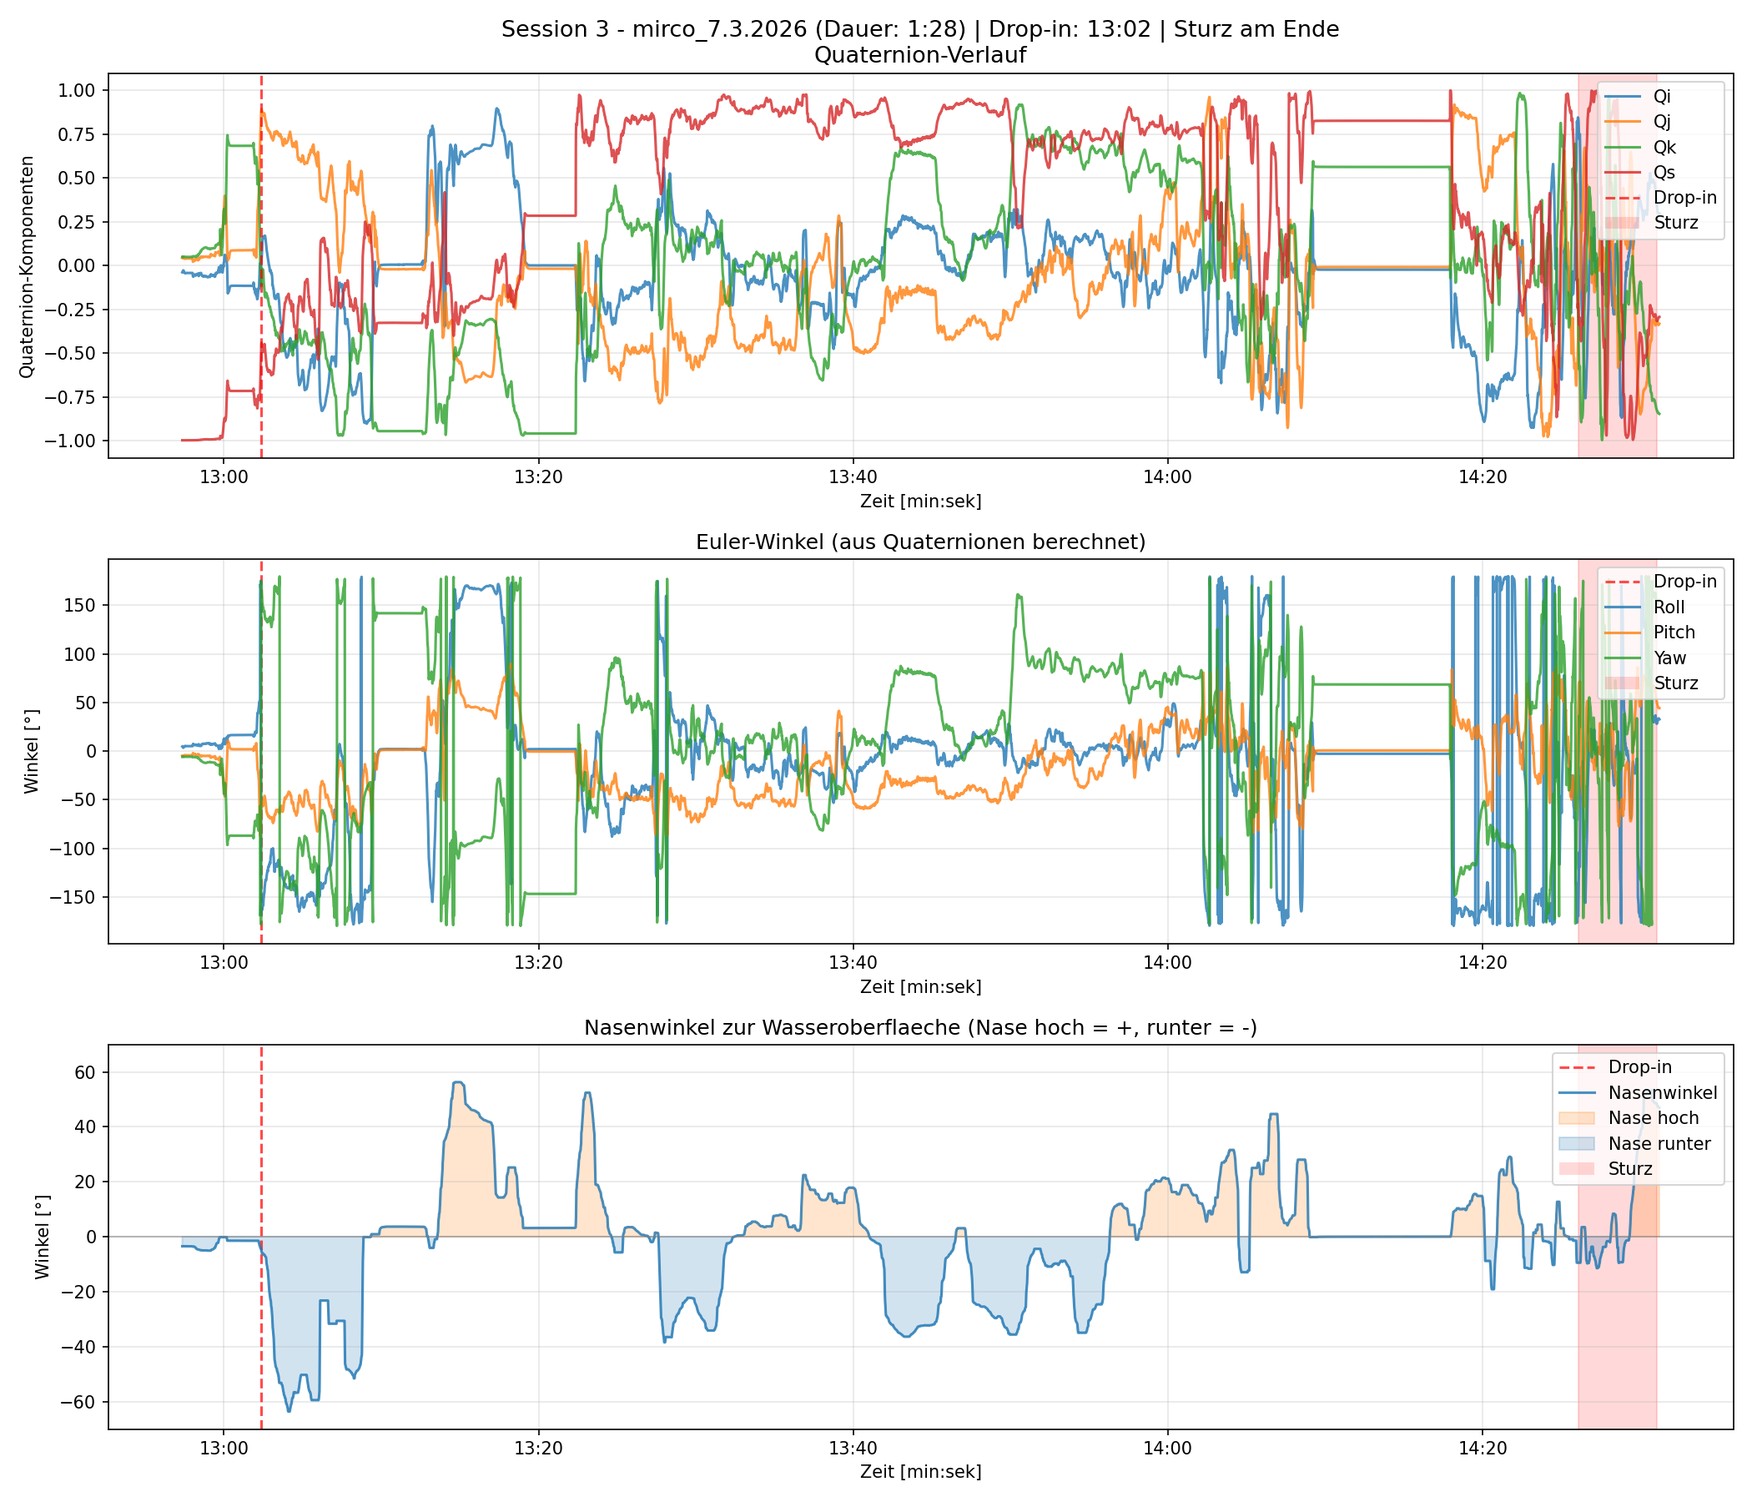
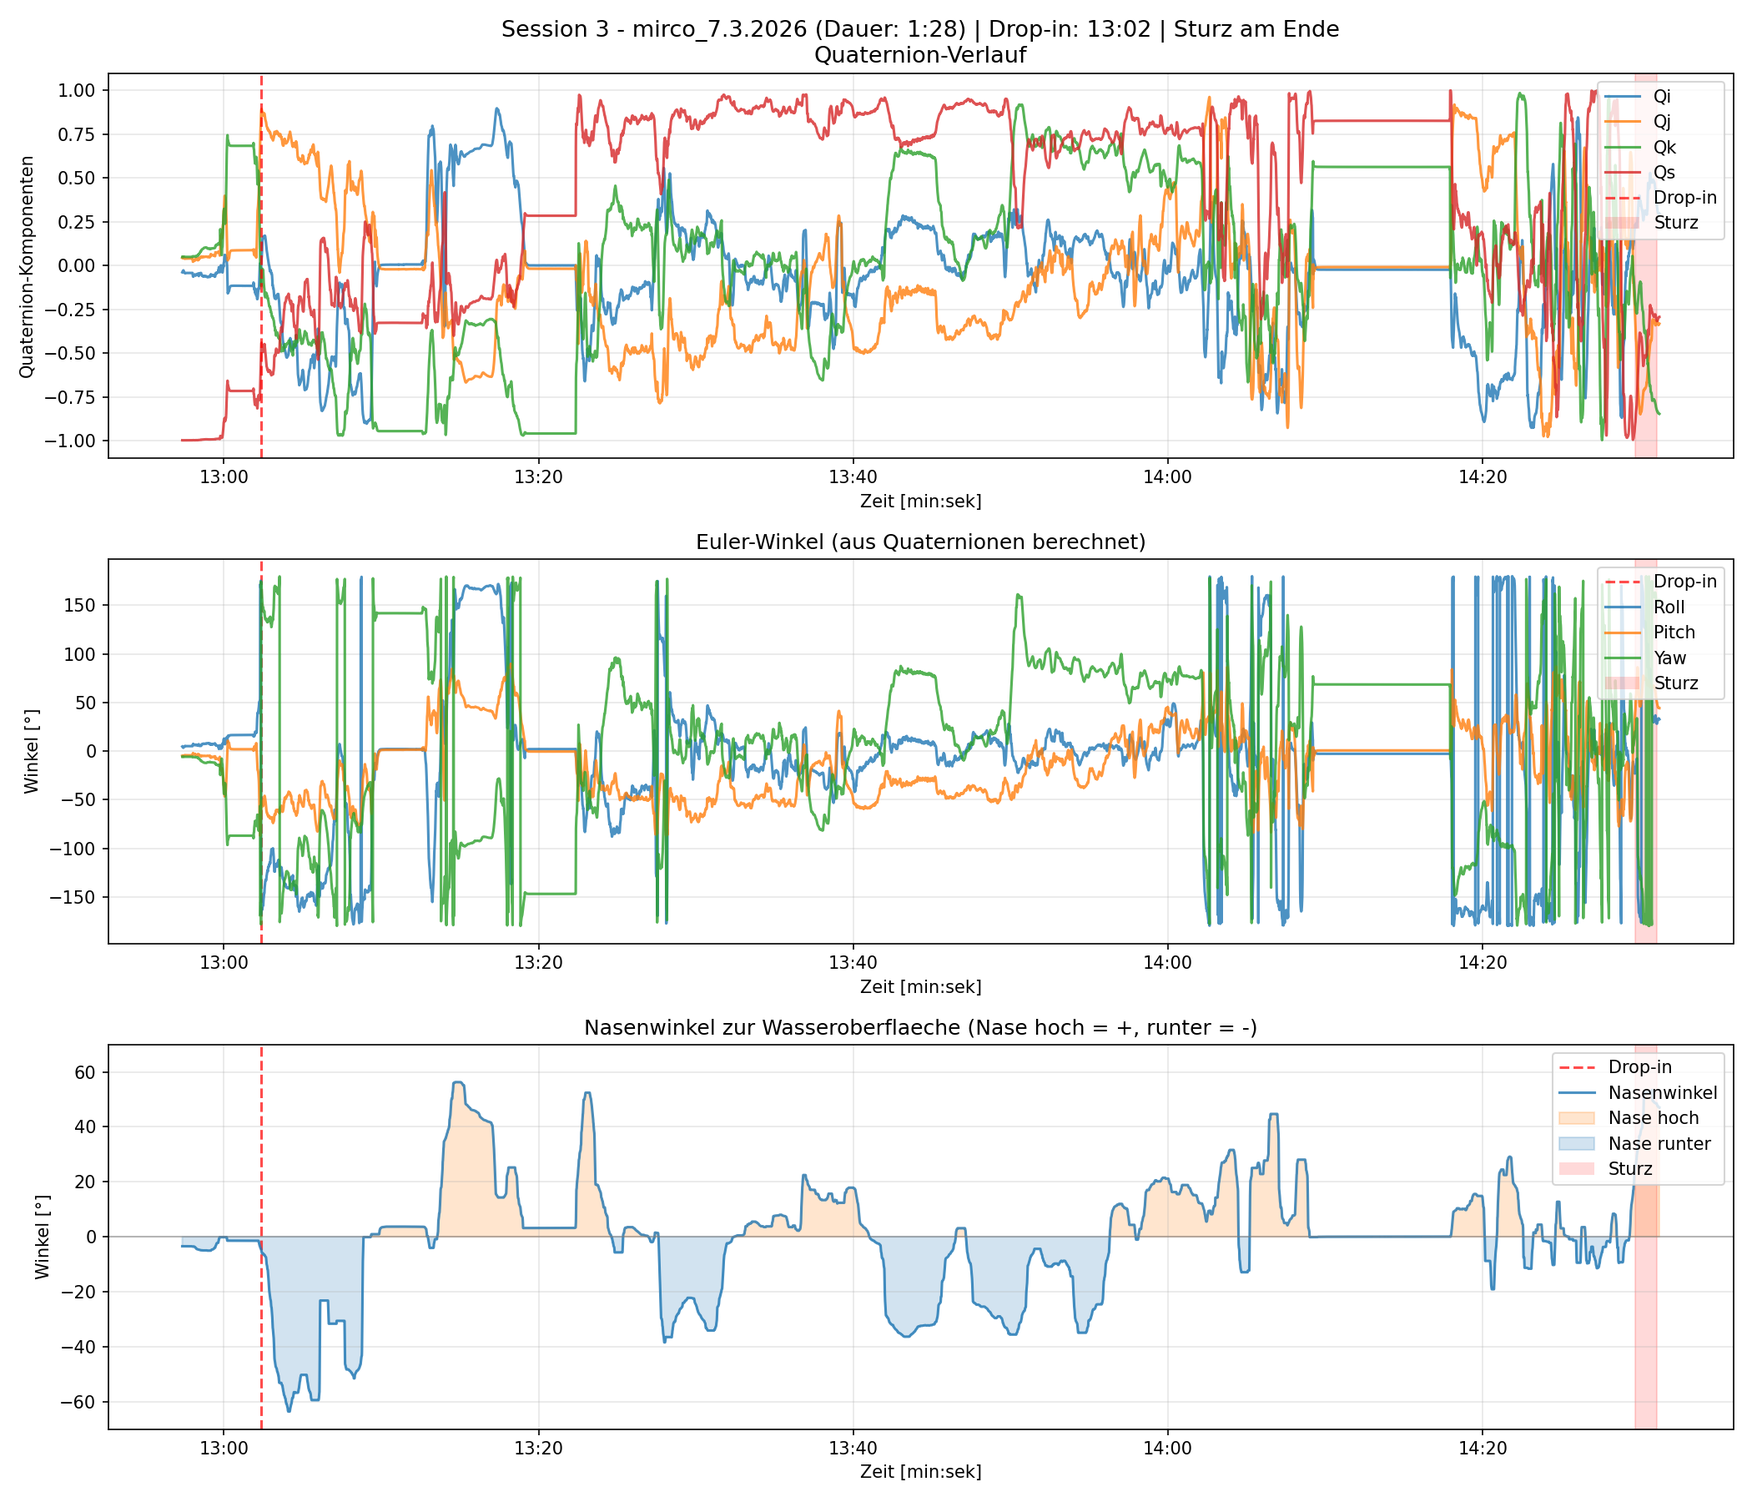
Add 2D board animation and improve crash detection and FFT analysis
- New animate_board_3d.py: 2D side-view animation showing board nose
  tilting up/down with water surface reference and nose angle time series
- Improved crash detection: scan backwards from session end to find where
  angle first exceeds ±25° instead of naive last-5-seconds
- FFT now computed only over clean pump zone (after drop-in, before crash)
- Uniform y-axis scaling across all sessions for better comparison
- Combined plot shows clean zone (green) and crash zone (red)

diff --git a/Utilities/scripts/animate_board_3d.py b/Utilities/scripts/animate_board_3d.py
@@ -1,0 +1,260 @@
+#!/usr/bin/env python3
+"""
+3D board orientation animation from quaternion data.
+
+Creates an animated GIF per pumpfoil session showing the board tilting
+according to the quaternion sensor data. The board is rendered as a flat
+rectangle; a nose marker (red) shows the front direction.
+
+Usage:
+  python animate_board_3d.py quaternion_data.csv [-o OUTPUT_DIR] [--fps 30]
+"""
+import argparse
+import os
+import sys
+
+import numpy as np
+import pandas as pd
+import matplotlib
+matplotlib.use('Agg')
+import matplotlib.pyplot as plt
+from mpl_toolkits.mplot3d.art3d import Poly3DCollection
+from matplotlib.animation import FuncAnimation, PillowWriter
+
+
+SAMPLE_RATE_HZ = 120
+
+
+def quat_rotate(q, v):
+    """Rotate vector v by quaternion q = (qi, qj, qk, qs) (Hamilton convention)."""
+    qi, qj, qk, qs = q
+    # q * v * q_conj using expanded formula
+    t = 2.0 * np.cross([qi, qj, qk], v)
+    return v + qs * t + np.cross([qi, qj, qk], t)
+
+
+def remove_yaw(qi, qj, qk, qs):
+    """Remove yaw (heading) from quaternion, keeping only pitch and roll.
+    This makes the board always face the same direction in the animation."""
+    # Compute yaw angle
+    siny_cosp = 2.0 * (qs * qk + qi * qj)
+    cosy_cosp = 1.0 - 2.0 * (qj * qj + qk * qk)
+    yaw = np.arctan2(siny_cosp, cosy_cosp)
+    # Create inverse yaw quaternion (rotation around Z by -yaw)
+    half_yaw = -yaw / 2.0
+    qz_i, qz_j, qz_k, qz_s = 0.0, 0.0, np.sin(half_yaw), np.cos(half_yaw)
+    # Multiply: q_no_yaw = q_inv_yaw * q_original
+    # Hamilton product (a * b)
+    r_s = qz_s * qs - qz_i * qi - qz_j * qj - qz_k * qk
+    r_i = qz_s * qi + qz_i * qs + qz_j * qk - qz_k * qj
+    r_j = qz_s * qj - qz_i * qk + qz_j * qs + qz_k * qi
+    r_k = qz_s * qk + qz_i * qj - qz_j * qi + qz_k * qs
+    return r_i, r_j, r_k, r_s
+
+
+def detect_sessions(csv_path):
+    """Detect pumping sessions (reuses logic from visualize_sensors.py)."""
+    quat_data = pd.read_csv(csv_path, skiprows=1, header=None, usecols=[0, 1, 2, 3])
+    quat_data.columns = ['Qi', 'Qj', 'Qk', 'Qs']
+
+    qi = quat_data['Qi'].values
+    qj = quat_data['Qj'].values
+    qk = quat_data['Qk'].values
+    qs = quat_data['Qs'].values
+
+    # Euler angles for session detection
+    sinr_cosp = 2.0 * (qs * qi + qj * qk)
+    cosr_cosp = 1.0 - 2.0 * (qi * qi + qj * qj)
+    roll = np.degrees(np.arctan2(sinr_cosp, cosr_cosp))
+
+    sinp = 2.0 * (qs * qj - qk * qi)
+    pitch = np.degrees(np.where(np.abs(sinp) >= 1, np.sign(sinp) * np.pi / 2, np.arcsin(sinp)))
+
+    euler_change = (np.abs(np.diff(pitch, prepend=pitch[0]))
+                    + np.abs(np.diff(roll, prepend=roll[0])))
+    activity = pd.Series(euler_change).rolling(SAMPLE_RATE_HZ).mean().fillna(0)
+    threshold = activity.median() + activity.std()
+    active = (activity > threshold).astype(int)
+    changes = active.diff().fillna(0)
+    starts = changes[changes == 1].index.tolist()
+    ends = changes[changes == -1].index.tolist()
+    if active.iloc[-1] == 1:
+        ends.append(len(active) - 1)
+
+    merge_gap = 60 * SAMPLE_RATE_HZ
+    sessions = []
+    for s, e in zip(starts, ends):
+        if sessions and (s - sessions[-1][1]) < merge_gap:
+            sessions[-1] = (sessions[-1][0], e)
+        else:
+            sessions.append((s, e))
+
+    min_duration = 30 * SAMPLE_RATE_HZ
+    sessions = [(s, e) for s, e in sessions if (e - s) >= min_duration]
+
+    # Filter walking
+    pumping_sessions = []
+    for s, e in sessions:
+        p = pitch[s:e]
+        p_centered = p - np.median(p)
+        crossings = np.sum(np.diff(np.sign(p_centered)) != 0)
+        duration = (e - s) / SAMPLE_RATE_HZ
+        osc_freq = crossings / duration / 2
+        if osc_freq >= 0.3:
+            pumping_sessions.append((s, e))
+
+    return quat_data, pumping_sessions
+
+
+def create_board_animation(quat_data, session_start, session_end, session_num,
+                           output_dir, base_name, fps=30):
+    """Create a 2D side-view animated GIF showing nose angle pumping motion.
+
+    Top panel: board seen from the side (line tilting up/down) with water surface.
+    Bottom panel: nose angle time series with moving cursor.
+    """
+    qi_all = quat_data['Qi'].values
+    qj_all = quat_data['Qj'].values
+    qk_all = quat_data['Qk'].values
+    qs_all = quat_data['Qs'].values
+
+    # Pre-compute nose angle for entire session
+    nose_z = 2 * (qj_all[session_start:session_end] * qk_all[session_start:session_end]
+                  - qs_all[session_start:session_end] * qi_all[session_start:session_end])
+    nose_deg = np.degrees(np.arcsin(np.clip(nose_z, -1, 1)))
+    # Smooth with 0.5s median filter for display
+    nose_smooth = pd.Series(nose_deg).rolling(
+        SAMPLE_RATE_HZ // 2, center=True, min_periods=1).median().values
+    t_sess = np.arange(len(nose_deg)) / SAMPLE_RATE_HZ
+
+    # Subsample for animation frames
+    step = max(1, SAMPLE_RATE_HZ // fps)
+    frame_indices = np.arange(0, len(nose_deg), step)
+    n_frames = len(frame_indices)
+
+    # Board geometry for side view (half-length)
+    board_len = 1.6  # total length in display units
+    hl = board_len / 2
+
+    duration_s = (session_end - session_start) / SAMPLE_RATE_HZ
+    dm, ds = divmod(int(duration_s), 60)
+
+    fig, (ax_board, ax_graph) = plt.subplots(2, 1, figsize=(12, 7),
+                                              gridspec_kw={'height_ratios': [2, 1]})
+    fig.suptitle(f'Session {session_num} - {base_name} (Dauer: {dm}:{ds:02d})',
+                 fontsize=14)
+
+    # Pre-draw the time series on ax_graph (static background)
+    ax_graph.plot(t_sess, nose_smooth, color='tab:blue', alpha=0.6, linewidth=0.8)
+    ax_graph.axhline(0, color='gray', linestyle='-', linewidth=1, alpha=0.5)
+    ax_graph.set_xlim(t_sess[0], t_sess[-1])
+    y_lim = max(abs(np.nanmin(nose_smooth)), abs(np.nanmax(nose_smooth))) * 1.1
+    y_lim = max(y_lim, 30)
+    ax_graph.set_ylim(-y_lim, y_lim)
+    ax_graph.set_ylabel('Nasenwinkel [°]')
+    ax_graph.set_xlabel('Zeit [sek]')
+    ax_graph.grid(True, alpha=0.3)
+
+    # Animated elements
+    cursor_line, = ax_graph.plot([], [], color='red', linewidth=2)
+    history_line, = ax_graph.plot([], [], color='red', linewidth=1.5, alpha=0.8)
+    angle_text = ax_board.text(0.02, 0.92, '', transform=ax_board.transAxes,
+                                fontsize=16, color='red', fontweight='bold')
+    time_text = ax_board.text(0.98, 0.92, '', transform=ax_board.transAxes,
+                               fontsize=14, ha='right')
+
+    def draw_frame(frame_idx):
+        fi = frame_indices[frame_idx]
+        angle = nose_smooth[fi]
+        t_now = t_sess[fi]
+
+        # --- Board side view ---
+        ax_board.clear()
+        rad = np.radians(angle)
+        # Board as thick line seen from side: tail on left, nose on right
+        tail_y = -hl * np.cos(rad)
+        tail_z = -hl * np.sin(rad)
+        nose_y = hl * np.cos(rad)
+        nose_z_pt = hl * np.sin(rad)
+
+        # Water surface
+        ax_board.fill_between([-2, 2], [-0.6, -0.6], [0, 0],
+                               color='#b3d9ff', alpha=0.4)
+        ax_board.axhline(0, color='#0077be', linewidth=2, alpha=0.7)
+
+        # Board body (thick line)
+        ax_board.plot([tail_y, nose_y], [tail_z, nose_z_pt],
+                      color='#2266aa', linewidth=8, solid_capstyle='round')
+        # Nose marker (red dot)
+        ax_board.plot(nose_y, nose_z_pt, 'o', color='red', markersize=14, zorder=5)
+        ax_board.text(nose_y + 0.08, nose_z_pt + 0.05, 'Nase', color='red',
+                      fontsize=10, fontweight='bold')
+        # Tail marker
+        ax_board.plot(tail_y, tail_z, 's', color='#224466', markersize=10, zorder=5)
+        ax_board.text(tail_y - 0.25, tail_z + 0.05, 'Heck', color='#224466',
+                      fontsize=10)
+
+        # Angle arc
+        if abs(angle) > 1:
+            arc_angles = np.linspace(0, rad, 30)
+            arc_r = 0.4
+            arc_y = arc_r * np.cos(arc_angles)
+            arc_z = arc_r * np.sin(arc_angles)
+            ax_board.plot(arc_y, arc_z, color='red', linewidth=1.5, alpha=0.7)
+
+        ax_board.set_xlim(-1.3, 1.3)
+        ax_board.set_ylim(-0.6, 0.6)
+        ax_board.set_aspect('equal')
+        ax_board.set_ylabel('Hoehe [m]')
+        ax_board.grid(True, alpha=0.2)
+
+        angle_text = ax_board.text(0.02, 0.88, f'Nasenwinkel: {angle:+.1f}°',
+                                    transform=ax_board.transAxes, fontsize=16,
+                                    color='red', fontweight='bold')
+        tm, ts_val = divmod(int(t_now), 60)
+        time_text = ax_board.text(0.98, 0.88, f'Zeit: {tm}:{ts_val:02d}',
+                                   transform=ax_board.transAxes, fontsize=14,
+                                   ha='right')
+
+        # --- Update cursor on graph ---
+        cursor_line.set_data([t_now, t_now], [-y_lim, y_lim])
+        # Highlight history in red
+        history_line.set_data(t_sess[:fi + 1], nose_smooth[:fi + 1])
+
+    print(f"  Generating {n_frames} frames for Session {session_num}...")
+    anim = FuncAnimation(fig, draw_frame, frames=n_frames, interval=1000 // fps)
+
+    out_path = os.path.join(output_dir, f'anim_board_{base_name}_session{session_num}.gif')
+    anim.save(out_path, writer=PillowWriter(fps=fps))
+    plt.close(fig)
+    print(f"Saved {out_path}")
+    return out_path
+
+
+def main():
+    parser = argparse.ArgumentParser(description='3D board orientation animation from quaternion data')
+    parser.add_argument('quaternion_csv', help='Path to quaternion CSV')
+    parser.add_argument('-o', '--output-dir', default='.', help='Output directory')
+    parser.add_argument('--fps', type=int, default=15, help='Frames per second (default: 15)')
+    args = parser.parse_args()
+
+    os.makedirs(args.output_dir, exist_ok=True)
+    base = os.path.basename(args.quaternion_csv).replace('.csv', '')
+
+    print(f"Loading {args.quaternion_csv}...")
+    quat_data, sessions = detect_sessions(args.quaternion_csv)
+
+    if not sessions:
+        print("No pumping sessions detected.")
+        sys.exit(1)
+
+    print(f"Found {len(sessions)} pumping session(s).")
+    for i, (s, e) in enumerate(sessions, 1):
+        dur = (e - s) / SAMPLE_RATE_HZ
+        dm, ds = divmod(int(dur), 60)
+        print(f"  Session {i}: {dm}:{ds:02d} ({e - s} samples)")
+        create_board_animation(quat_data, s, e, i, args.output_dir, base, fps=args.fps)
+
+
+if __name__ == '__main__':
+    main()

diff --git a/Utilities/scripts/visualize_sensors.py b/Utilities/scripts/visualize_sensors.py
@@ -243,16 +243,37 @@ def plot_quaternions(csv_path, output_dir):
         baseline = baseline.interpolate(method='linear').bfill().ffill().values
         nose_angle = nose_smooth - baseline
 
-        # Store nose angle for combined plot (session range without last 5s crash)
-        pump_end = e - 5 * sample_rate_hz
-        pump_std = np.std(nose_angle[s:pump_end])
-        pump_range = np.max(nose_angle[s:pump_end]) - np.min(nose_angle[s:pump_end])
-        all_nose_angles.append((t_sec[sl], nose_angle[s_padded:e_padded],
-                                s, e, i, pump_std, pump_range, drop_in_idx))
+        # Detect crash start: scan backwards from end to find where angle
+        # first stays within ±25° for at least 2 seconds (= clean pumping)
+        crash_threshold = 25
+        stable_needed = 2 * sample_rate_hz
+        crash_start = e - 5 * sample_rate_hz  # fallback: last 5 seconds
+        for scan_idx in range(e - 1, s, -1):
+            # Check if the window [scan_idx - stable_needed : scan_idx] is clean
+            window_start = max(s, scan_idx - stable_needed)
+            window_data = nose_angle[window_start:scan_idx]
+            if len(window_data) >= stable_needed and np.all(np.abs(window_data) < crash_threshold):
+                crash_start = scan_idx
+                break
 
-        # Mark end-of-session crash: last 5 seconds of the session
-        crash_start = e - 5 * sample_rate_hz
-        crash_count = 1
+        # Detect clean pump start: after drop-in, find where angle settles < ±25°
+        pump_start = s
+        if drop_in_idx is not None:
+            for scan_idx in range(drop_in_idx, min(crash_start, e)):
+                window_end = min(scan_idx + stable_needed, e)
+                window_data = nose_angle[scan_idx:window_end]
+                if len(window_data) >= stable_needed and np.all(np.abs(window_data) < crash_threshold):
+                    pump_start = scan_idx
+                    break
+
+        # Store nose angle for combined plot with clean pump zone
+        pump_std = np.std(nose_angle[pump_start:crash_start])
+        pump_range = np.max(nose_angle[pump_start:crash_start]) - np.min(nose_angle[pump_start:crash_start])
+        all_nose_angles.append((t_sec[sl], nose_angle[s_padded:e_padded],
+                                s, e, i, pump_std, pump_range, drop_in_idx,
+                                pump_start, crash_start))
+
+        # Mark crash zone
         for ax in (az1, az2, az3):
             ax.axvspan(t_sec[crash_start], t_sec[e], alpha=0.15, color='red', zorder=0)
 
@@ -323,6 +344,11 @@ def plot_quaternions(csv_path, output_dir):
         time_fmt_c = FuncFormatter(fmt_min_sec_c)
 
         colors = ['tab:blue', 'tab:orange', 'tab:green']
+        # Compute global y-axis limit across all sessions for uniform scaling
+        global_y_max = 10
+        for _, sess_nose, *_ in all_nose_angles:
+            ym = max(abs(np.nanmin(sess_nose)), abs(np.nanmax(sess_nose))) * 1.1
+            global_y_max = max(global_y_max, ym)
         # Also collect raw nose elevation for FFT
         qi_a = quat_data['Qi'].values
         qj_a = quat_data['Qj'].values
@@ -331,7 +357,8 @@ def plot_quaternions(csv_path, output_dir):
         nose_z_all = 2 * (qj_a * qk_a - qs_a * qi_a)
         nose_elev_all = np.degrees(np.arcsin(np.clip(nose_z_all, -1, 1)))
 
-        for idx, (sess_t, sess_nose, sess_s, sess_e, sess_i, p_std, p_range, sess_drop_in) in enumerate(all_nose_angles):
+        for idx, (sess_t, sess_nose, sess_s, sess_e, sess_i, p_std, p_range,
+                  sess_drop_in, sess_pump_start, sess_crash_start) in enumerate(all_nose_angles):
             ax_t = axes_c[idx][0]  # time domain (left)
             ax_f = axes_c[idx][1]  # frequency domain (right)
             c = colors[idx % len(colors)]
@@ -345,17 +372,23 @@ def plot_quaternions(csv_path, output_dir):
             if sess_drop_in is not None:
                 drop_t = t_sec[sess_drop_in]
                 ax_t.axvline(drop_t, color='green', linestyle='--', linewidth=2, alpha=0.8)
-            # Mark end crash (last 5 seconds)
-            crash_start_t = t_sec[sess_e - 5 * sample_rate_hz]
+            # Mark crash zone (from detected crash start to session end)
+            crash_start_t = t_sec[sess_crash_start]
             crash_end_t = t_sec[sess_e]
             ax_t.axvspan(crash_start_t, crash_end_t, alpha=0.15, color='red', zorder=0)
+            # Show clean pump zone with light green background
+            pump_start_t = t_sec[sess_pump_start]
+            ax_t.axvspan(pump_start_t, crash_start_t, alpha=0.05, color='green', zorder=0)
             dur = (sess_e - sess_s) / sample_rate_hz
             dm, ds_val = divmod(int(dur), 60)
+            clean_dur = (sess_crash_start - sess_pump_start) / sample_rate_hz
+            cm, cs_val = divmod(int(clean_dur), 60)
             factor = f' ({p_std/all_nose_angles[0][5]:.1f}x)' if idx > 0 else ''
-            ax_t.set_title(f'Session {sess_i} (Dauer: {dm}:{ds_val:02d}) | '
+            ax_t.set_title(f'Session {sess_i} (Dauer: {dm}:{ds_val:02d}, '
+                         f'sauber: {cm}:{cs_val:02d}) | '
                          f'Pump-Abweichung: ±{p_std:.1f}°{factor}, '
                          f'Bereich={p_range:.0f}°',
-                         fontsize=13)
+                         fontsize=12)
             ax_t.set_ylabel('Winkel [°]')
             ax_t.grid(True, alpha=0.3)
             ax_t.xaxis.set_major_formatter(time_fmt_c)
@@ -365,19 +398,18 @@ def plot_quaternions(csv_path, output_dir):
             h, l = ax_t.get_legend_handles_labels()
             h.append(Line2D([0], [0], color='green', linestyle='--', linewidth=2))
             l.append('Drop-in')
+            h.append(Patch(facecolor='green', alpha=0.1))
+            l.append('Sauberer Bereich')
             h.append(Patch(facecolor='red', alpha=0.15))
             l.append('Sturz')
             ax_t.legend(handles=h, labels=l, loc='upper right', fontsize=8)
-            # Auto-scale
-            y_max = max(abs(np.nanmin(sess_nose)), abs(np.nanmax(sess_nose))) * 1.1
-            y_max = max(y_max, 10)
-            ax_t.set_ylim(-y_max, y_max)
+            # Uniform y-axis across all sessions
+            ax_t.set_ylim(-global_y_max, global_y_max)
 
-            # FFT analysis (right column)
+            # FFT analysis (right column) — only over clean pump zone
             from scipy.fft import rfft, rfftfreq
-            # Use median-filtered nose elevation for FFT
             smooth_window = sample_rate_hz
-            nose_sess = nose_elev_all[sess_s:sess_e]
+            nose_sess = nose_elev_all[sess_pump_start:sess_crash_start]
             nose_fft_data = pd.Series(nose_sess).rolling(
                 smooth_window, center=True, min_periods=1).median().values
             nose_fft_data = nose_fft_data - np.mean(nose_fft_data)  # remove DC
@@ -404,6 +436,10 @@ def plot_quaternions(csv_path, output_dir):
 
         axes_c[-1][0].set_xlabel('Zeit [min:sek]')
         axes_c[-1][1].set_xlabel('Frequenz [Hz]')
+        # Uniform FFT y-axis across all sessions
+        fft_y_max = max(ax_row[1].get_ylim()[1] for ax_row in axes_c)
+        for ax_row in axes_c:
+            ax_row[1].set_ylim(0, fft_y_max)
         fig_c.suptitle(f'Nasenwinkel zur Wasseroberflaeche - {title}', fontsize=15, y=1.0)
         fig_c.tight_layout()
         out_c = os.path.join(output_dir, f'plot_nose_angle_{base}.png')
